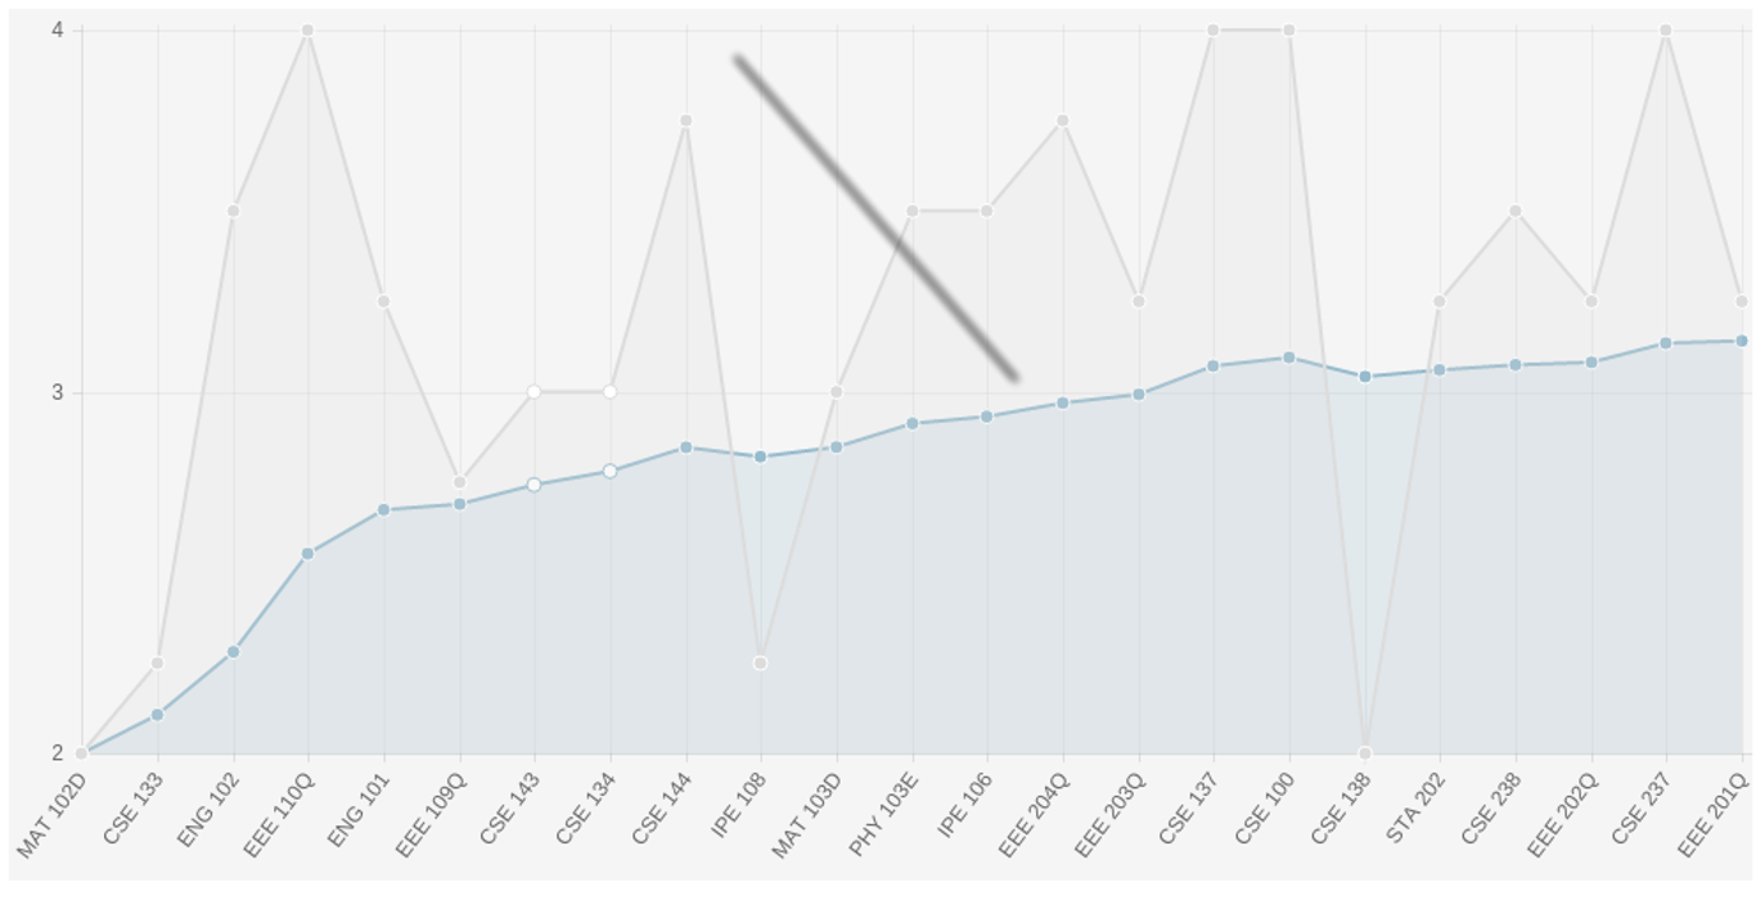
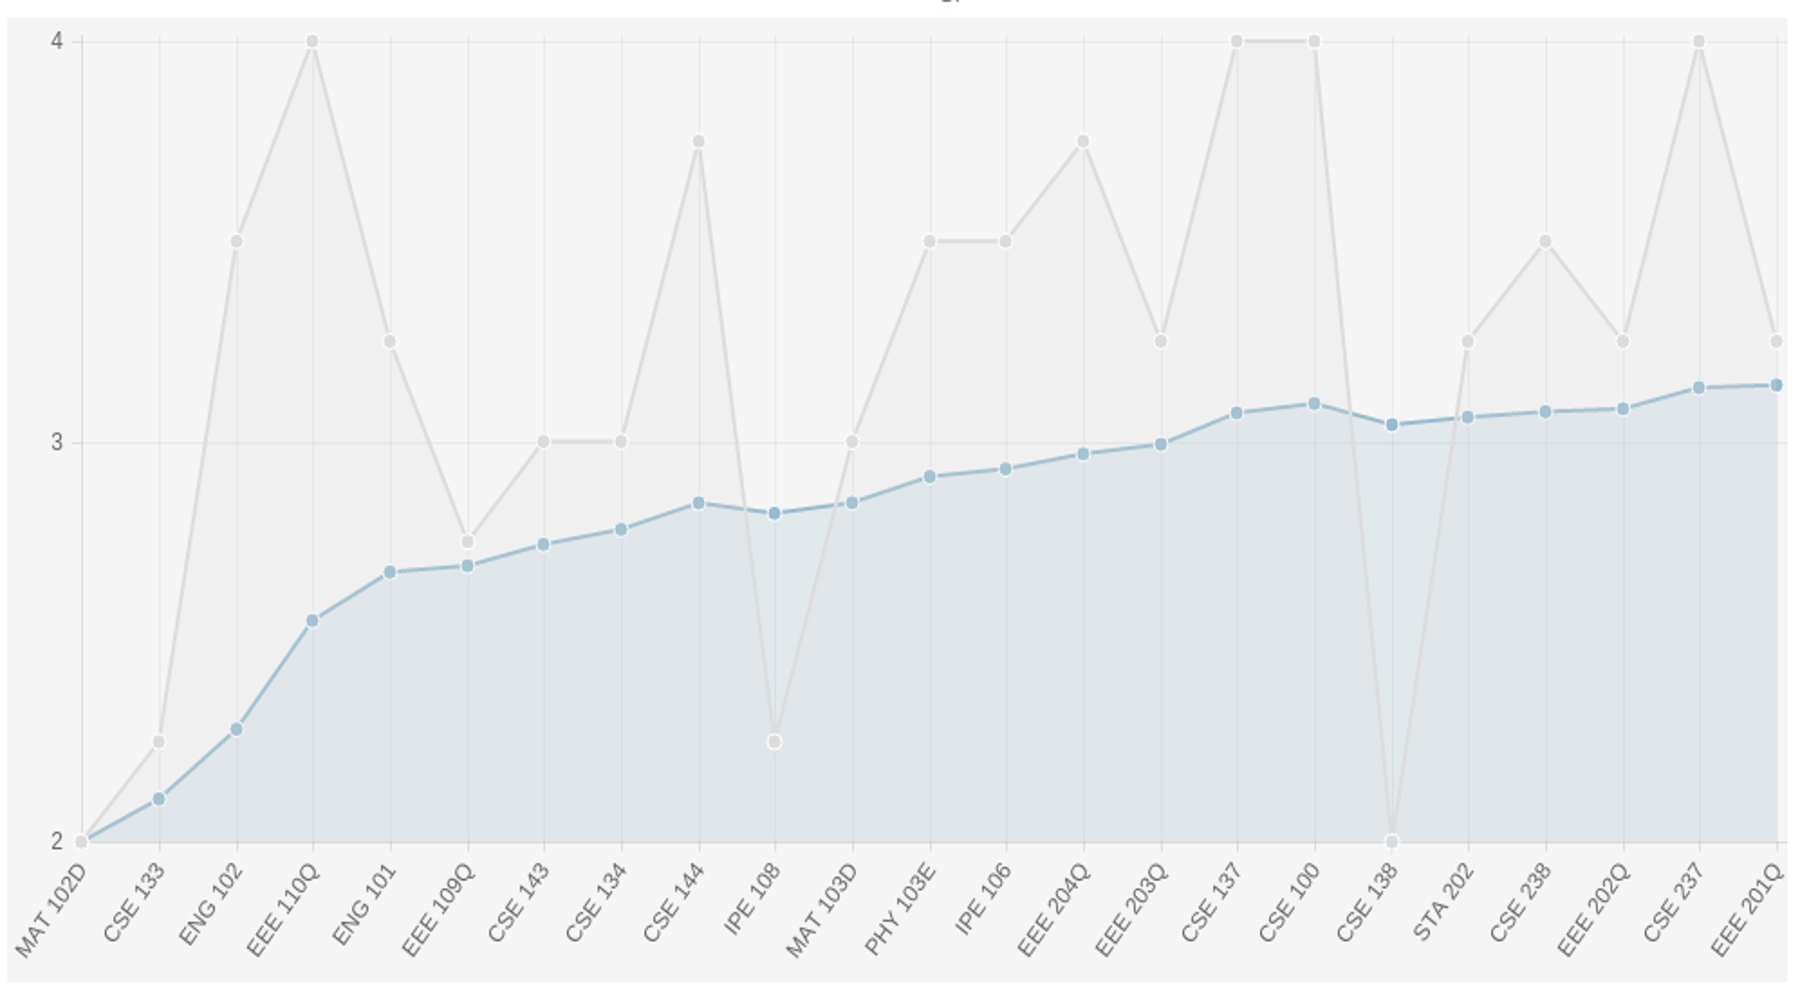
added all

diff --git a/app/views/home/home.blade.php b/app/views/home/home.blade.php
@@ -22,7 +22,7 @@
                          data-speed="400"
                          data-start="1000"
                          data-easing="easeOutExpo">
-                        Clean & Creative
+                        SUSTian Result Processing Service
                     </div>
 
                     <div class="caption lfr slide_subtitle dark-text"
@@ -31,7 +31,7 @@
                          data-speed="400"
                          data-start="2000"
                          data-easing="easeOutExpo">
-                        A Responsive Frontend Template
+                        An unofficial student service
                     </div>
                     <div class="caption lfr slide_desc"
                          data-x="670"
@@ -39,17 +39,17 @@
                          data-speed="400"
                          data-start="2500"
                          data-easing="easeOutExpo">
-                        Sed ut perspiciatis unde omnis iste natus error sit voluptatem <br>
-                        accusantium doloremque laudantium, totam rem aperiam,<br>
-                        eaque ipsa quae ablic jiener.
+                        To keep your results organized and keep you aware of your condition 
+                        <br>SUSTian RPS is at your service.
                     </div>
-                    <a class="caption lfr btn yellow slide_btn" href="http://thevectorlab.net/flatlab" target="_blank"
+                    <a class="caption lfr btn yellow slide_btn"
+                    href="{{ route('features') }}"
                        data-x="670"
                        data-y="400"
                        data-speed="400"
                        data-start="3500"
                        data-easing="easeOutExpo">
-                        Watch Dashboard
+                        Watch Features
                     </a>
 
                 </li>
@@ -64,15 +64,7 @@
                          data-speed="400"
                          data-start="1500"
                          data-easing="easeOutExpo">
-                        YAHOOOOO. TWO IN ONE
-                    </div>
-                    <div class="caption lft slide_subtitle dark-text"
-                         data-x="10"
-                         data-y="180"
-                         data-speed="400"
-                         data-start="2000"
-                         data-easing="easeOutExpo">
-                        Admin & Fronend in a single bundle
+                        YAHOOO... Got it!
                     </div>
                     <div class="caption lft slide_desc dark-text"
                          data-x="10"
@@ -80,17 +72,19 @@
                          data-speed="400"
                          data-start="2500"
                          data-easing="easeOutExpo">
-                        Sed ut perspiciatis unde omnis iste natus error sit voluptatem <br>
-                        accusantium doloremque laudantium, totam rem aperiam,<br>
-                        eaque ipsa quae ablic jiener.
+                        No need to use excel files to keep your records <br>
+                        Calculation Software or files for saving results !!!<br>
+                        Nope, this the perfect replacement of those things with more
+                        ease
                     </div>
-                    <a class="caption lft slide_btn btn red slide_item_left" href="#" target="_blank"
+                    <a class="caption lft slide_btn btn red slide_item_left" 
+                       href="{{ route('register') }}"
                        data-x="10"
                        data-y="360"
                        data-speed="400"
                        data-start="3000"
                        data-easing="easeOutExpo">
-                        Purchase Now
+                        Register
                     </a>
                     <div class="caption lft start"
                          data-x="640"
@@ -161,7 +155,7 @@
                          data-speed="400"
                          data-start="3500"
                          data-easing="easeOutExpo">
-                        Full Responsive
+                        Advanced Statistics
                     </div>
                     <div class="caption lfr slide_subtitle slide_item_left"
                          data-x="670"
@@ -169,7 +163,7 @@
                          data-speed="400"
                          data-start="4000"
                          data-easing="easeOutExpo">
-                        And Awesome Flat Design
+                        And Visual Data
                     </div>
                     <div class="caption lfr slide_desc slide_item_left"
                          data-x="670"
@@ -177,9 +171,9 @@
                          data-speed="400"
                          data-start="4500"
                          data-easing="easeOutExpo">
-                        Sed ut perspiciatis unde omnis iste natus error sit voluptatem <br>
-                        accusantium doloremque laudantium, totam rem aperiam,<br>
-                        eaque ipsa quae ablic jiener.
+                        You can see whats going on your profile <br>
+                        as well as see your position in your batch.<br>
+                        Get ideas from different charts/graphs.
                     </div>
 
 
@@ -196,35 +190,8 @@
     <div class="row">
         <!--feature start-->
         <div class="text-center feature-head">
-            <h1>welcome to flatlab</h1>
-            <p>Professional html Template Perfect for Admin Dashboard</p>
-        </div>
-        <div class="col-lg-4 col-sm-4">
-            <section>
-                <div class="f-box">
-                    <i class=" fa fa-desktop"></i>
-                    <h2>responsive design</h2>
-                </div>
-                <p class="f-text">Sed ut perspiciatis unde omnis iste natus error sit voluptatem accusantium doloremque laudantium, totam rem aperiam, eaque ipsa quae ablic jiener.</p>
-            </section>
-        </div>
-        <div class="col-lg-4 col-sm-4">
-            <section>
-                <div class="f-box active">
-                    <i class=" fa fa-code"></i>
-                    <h2>friendly code</h2>
-                </div>
-                <p class="f-text">Sed ut perspiciatis unde omnis iste natus error sit voluptatem accusantium doloremque laudantium, totam rem aperiam, eaque ipsa quae ablic jiener.</p>
-            </section>
-        </div>
-        <div class="col-lg-4 col-sm-4">
-            <section>
-                <div class="f-box">
-                    <i class="fa fa-gears"></i>
-                    <h2>fully customizable</h2>
-                </div>
-                <p class="f-text">Sed ut perspiciatis unde omnis iste natus error sit voluptatem accusantium doloremque laudantium, totam rem aperiam, eaque ipsa quae ablic jiener.</p>
-            </section>
+            <h1>welcome to SUSTian RPS</h1>
+            <p>A service for SUSTians</p>
         </div>
         <!--feature end-->
     </div>
@@ -233,12 +200,16 @@
         <div class="quote">
             <div class="col-lg-9 col-sm-9">
                 <div class="quote-info">
-                    <h1>developer friendly code</h1>
-                    <p>Bundled with awesome features, UI resource unlimited colors, advanced theme options & much more!</p>
+                    <h1>This is for you</h1>
+                    <p>
+                        Simple & user friendly use. Important Statistics & data.
+                        The days of pain is over :)
+                    </p>
+                        
                 </div>
             </div>
             <div class="col-lg-3 col-sm-3">
-                <a href="#" class="btn btn-danger purchase-btn">Purchase now</a>
+                <a href="{{ route('register') }}" class="btn btn-danger purchase-btn">Register now</a>
             </div>
         </div>
         <!--quote end-->

diff --git a/app/controllers/DashboardController.php b/app/controllers/DashboardController.php
@@ -24,7 +24,7 @@ class DashboardController extends \BaseController{
         $obj = new DashboardController();
         
         //cgpa chart
-        $chartData = $obj->showcoursegrade();
+        $chartData = $obj->showcoursecgpa();
         
         //current cgpa
         $current_cgpa = round($obj->calculateCGPA(),2);
@@ -50,8 +50,8 @@ class DashboardController extends \BaseController{
     }
 
 
-    public function showcoursegrade(){
-
+    public function showcoursecgpa(){
+        //plot course vs CGPA graph
         try{
             $user_id = Auth::user()->id;
             $results = Result::where('user_id',$user_id)->get();
@@ -61,30 +61,71 @@ class DashboardController extends \BaseController{
             $taken_courses_sorted_id = $taken_courses->lists('id');
             $taken_courses_sorted_number = $taken_courses->lists('course_number');
 
-            //sort results as the $taken_courses__sorted_id
+            $gradesArray = array();
             $resultsArray = array();
-            foreach($taken_courses_sorted_id as $taken_courses_sorted_id){
-                $resultsArray[] = (float) Result::where('course_id',$taken_courses_sorted_id)->pluck('grade_point');
+            $corresponding_courses = array();
+
+            $i=0;
+            //sort results as the $taken_courses__sorted_id
+            foreach($taken_courses_sorted_id as $taken_course_sorted_id){
+                $temp = Result::where('course_id',$taken_course_sorted_id)
+                    ->where('grade_point','!=',0.00)
+                    ->with('Course')
+                    ->first();
+                if( $temp != null) {
+                    $corresponding_courses[] = Course::where('id',$taken_course_sorted_id)->pluck('course_number');
+                    $resultsArray[] = $temp;
+                    $gradesArray[]  = (float) $temp->grade_point;
+                }
+                ++$i;
             }
+
+            $progressiveCGPA = $this->getProgressiveCGPA($resultsArray);
+
             $list = $this->getCourseList();
 
             if(count($resultsArray)<=0){
+
                 return $chartData = [
-                'courseList'    =>  null,
-                'grades'        =>  null,
-                'lists'         =>  null
+                    'courseList'=>null,
+                    'cgpa'=>null,
+                    'grades'=>null,
+                    'lists'=>$list
                 ];
             }
-            return $chartData = [
-                'courseList'    =>  $taken_courses_sorted_number,
-                'grades'        =>  $resultsArray,
-                'lists'         =>  $list
-            ];
-        }catch (Exception $ex){
-            return Redirect::back()->with(['error'=>'could not find data to calculate']);
-        }
 
-       }
+            return $chartData = [
+                    'courseList'=>$corresponding_courses,
+                    'cgpa'=>$progressiveCGPA,
+                    'grades'=>$gradesArray,
+                    'lists'=>$list
+                ];
+
+        }catch(Exception $ex){
+            return Log::error($ex);
+            return Redirect::back()->with(['error'=>'Error generating CGPA graph']);
+        }
+    }
+
+    private function getProgressiveCGPA($results){
+        try{
+            $total_credits = 0;
+            $TGP = 0;
+            $progressiveCGPA = array();
+            $resultArray = array();
+
+            foreach($results as $result){
+                $resultArray[] = $result;
+                $total_credits += $result->course->course_credit;
+                $TGP += $result->grade_point*$result->course->course_credit;
+                $progressiveCGPA[] = (float) $TGP/$total_credits;
+            }
+            return $progressiveCGPA;
+
+        }catch (Exception $ex){
+            return Redirect::back()->with('error','Error generating subject vs CGPA graph function');
+        }
+    }
 
        private function getCourseList(){
         $userInfo = Auth::user()->userInfo;

diff --git a/app/views/userdashboard.blade.php b/app/views/userdashboard.blade.php
@@ -57,7 +57,7 @@
                     <h3>Earning Graph</h3>
                 </div>
                 <section class="panel">
-        @if($chartData['courseList']!=null||$chartData['grades']!=null)
+        @if($chartData['courseList']!=null||$chartData['cgpa']!=null)
         <div class="panel-body">
             <div class="tab-content tasi-tab">
                 <div class="tab-pane active" id="popular">
@@ -146,25 +146,34 @@
                 //labels: ["January", "February", "March", "April", "May", "June", "July"],
                 datasets: [
                     {
-                        label: "Grade",
+                        label: "CGPA",
                         fillColor: "rgba(151,187,205,0.2)",
                         strokeColor: "rgba(151,187,205,1)",
                         pointColor: "rgba(151,187,205,1)",
                         pointStrokeColor: "#fff",
                         pointHighlightFill: "#fff",
                         pointHighlightStroke: "rgba(151,187,205,1)",
+                        data: {{ json_encode($chartData['cgpa']) }}
+                    },
+                    {
+                        label: "Grade",
+                        fillColor: "rgba(220,220,220,0.2)",
+                        strokeColor: "rgba(220,220,220,1)",
+                        pointColor: "rgba(220,220,220,1)",
+                        pointStrokeColor: "#fff",
+                        pointHighlightFill: "#fff",
+                        pointHighlightStroke: "rgba(220,220,220,1)",
                         data: {{ json_encode($chartData['grades']) }}
                     }
                 ]
             };
             var ctx = document.getElementById('myChart').getContext('2d');
-            //var myLineChart = new Chart(ctx).Line(data, { bezierCurve: false});
-            var myBarChart = new Chart(ctx).Bar(data, { bezierCurve: true,
+            var myLineChart = new Chart(ctx).Line(data, { bezierCurve: false,
                 multiTooltipTemplate: "<%= datasetLabel %> - <%= value %>"});
+            //var myBarChart = new Chart(ctx).Bar(data, { bezierCurve: false});
+            myLineChart.generateLegend();
 
         })();
-
-
     </script>
 
 @stop

diff --git a/app/views/home/features.blade.php b/app/views/home/features.blade.php
@@ -54,10 +54,10 @@
                 </li>
                 <li>
                     <div class="element item view view-tenth" data-zlname="reverse-effect">
-                        {{ HTML::image('frontend/img/home/bar_chart_screen.png') }}
+                        {{ HTML::image('frontend/img/home/donut_chart_screen.png') }}}
                         <div class="mask">
                         <h2 style="color:white;">Overall Class condition</h2>
-                            <a data-zl-popup="link2" class="fancybox" rel="group" href="frontend/img/works/img6.jpg">
+                            <a data-zl-popup="link2" class="fancybox" rel="group" href="frontend/img/home/donut_chart_screen.png">
                                 <i class="fa fa-search"></i>
                             </a>
                         </div>
@@ -69,16 +69,6 @@
                         <div class="mask">
                         <h2 style="color:white;">Course-wise class statistics</h2>
                             <a data-zl-popup="link2" class="fancybox" rel="group" href="frontend/img/home/pie_chart_screen.png">
-                                <i class="fa fa-search"></i>
-                            </a>
-                        </div>
-                    </div>
-                </li>
-                <li>
-                    <div class="element item view view-tenth" data-zlname="reverse-effect">
-                        {{ HTML::image('frontend/img/home/donut_chart_screen.png') }}
-                        <div class="mask">
-                            <a data-zl-popup="link2" class="fancybox" rel="group" href="frontend/img/home/donut_chart_screen.png">
                                 <i class="fa fa-search"></i>
                             </a>
                         </div>

diff --git a/app/views/home/about.blade.php b/app/views/home/about.blade.php
@@ -41,7 +41,7 @@
             </div>
         </div>
         <div class="col-lg-7 about">
-            <h3>Welcome to SUST RPS</h3>
+            <h3>Welcome to SUSTian Result Processing Service</h3>
             <p>
                 This is a service for the students of SUST. As course results gets added to our calculations, we find it
                 harer to manage course informations, results, drop etc. So, thought to make something that'll make
